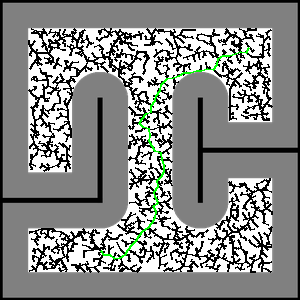
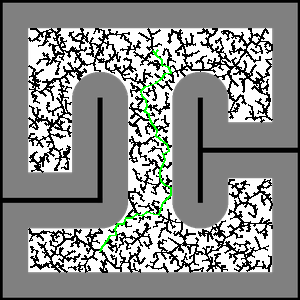
arm position gain updated

Changed region(s): [[0.09, 0.09, 0.93, 0.93]]

diff --git a/finalproject.py b/finalproject.py
@@ -42,7 +42,7 @@ class Run:
         self.joint_angles = np.zeros(7)
 
         # goal location
-        self.goal_position = (2.5, 2.5)
+        self.goal_position = (1.6, 2.5)
         self.goal_shelf = 1
 
         self.offset3 = 0.3105
@@ -74,7 +74,7 @@ class Run:
             math.sin(goal_theta - self.odometry.theta),
             math.cos(goal_theta - self.odometry.theta))) > 0.02:
             output_theta = self.pidTheta.update(self.odometry.theta, goal_theta, self.time.time())
-            self.create.drive_direct(int(+output_theta), int(-output_theta))
+            self.create.drive_direct(int(+output_theta)+5, int(-output_theta)-5)
             self.sleep(0.01)
         self.create.drive_direct(0, 0)
         self.pf.move_by(self.odometry.x - old_x, self.odometry.y - old_y, self.odometry.theta - old_theta)
@@ -123,30 +123,18 @@ class Run:
         return (real_x, real_y)
     
     def final_rotate_angle(self):
-        diff_x = (3 - self.goal_position[0], self.goal_position[0])
-        diff_y = (3 - self.goal_position[1], self.goal_position[1])
-        if diff_x[0] < diff_x[1]:
-            if diff_y[0] < diff_x[0]:
-                return -math.pi/2.
-            elif diff_y[1] < diff_x[0]:
-                return math.pi/2.
-            elif diff_x[0] == diff_y[0]:
-                return math.pi+math.pi/4.
-            elif diff_x[0] == diff_y[1]:
-                return math.pi-math.pi/4.
-            else:
-                return math.pi
-        else:
-            if diff_y[0] < diff_x[1]:
-                return -math.pi/2.
-            elif diff_y[1] < diff_x[1]:
-                return math.pi/2.
-            elif diff_x[1] == diff_y[0]:
-                return -math.pi/4
-            elif diff_x[1] == diff_y[1]:
-                return math.pi/4
-            else:
-                return 0
+        self.arm.get_position()
+        self.time.sleep(1)
+        arm_location = self.arm.get_position()
+
+        if arm_location[1] > 3:
+            return -math.pi/2.
+        elif arm_location[1] < 0:
+            return math.pi/2.
+        elif arm_location[0] < 0:
+            return 0
+        elif arm_location[0] > 3:
+            return math.pi
 
 
     ### section2
@@ -235,7 +223,7 @@ class Run:
         current_loc = self.get_position()
         self.odometry.x = current_loc[0]
         self.odometry.y = current_loc[1]
-        base_speed = 20
+        base_speed = 15
         while True:
             state = self.create.update()
             old_x = self.odometry.x
@@ -250,7 +238,7 @@ class Run:
 
                 distance = math.sqrt(math.pow(self.goal_position[0] - self.odometry.x, 2) + math.pow(self.goal_position[1] - self.odometry.y, 2))
                 x_distance = abs(self.odometry.x - self.goal_position[0])
-                if x_distance < 0.017 and distance < 0.03:
+                if x_distance < 0.017 and distance < 0.04:
                     self.create.drive_direct(0, 0)
                     break
 
@@ -268,6 +256,7 @@ class Run:
         self.odometry.x = start_position[0]
         self.odometry.y = start_position[1]
         self.odometry.theta = 0
+        self.pf.set_particle((start_position[0], start_position[1], self.odometry.theta))
         start_position = self.real_to_image(start_position)
         self.rrt.build(start_position, 6000, 6)
         goal = self.rrt.nearest_neighbor(self.real_to_image(self.goal_position))
@@ -353,6 +342,7 @@ class Run:
             count += 1
 
         self.create.drive_direct(0, 0)
+        print("Final Step")
         self.compensate_location()
         self.go_to_angle(self.final_rotate_angle())
         self.create.drive_direct(0, 0)

diff --git a/pyCreate2/simulation/kuka_lbr4p_vrep.py b/pyCreate2/simulation/kuka_lbr4p_vrep.py
@@ -19,6 +19,14 @@ class KukaLBR4PlusVrep:
                 vrep.simx_opmode_oneshot_wait)
             self._joints.append(joint)
 
+    def get_position(self):
+        rc, (x,y,z) = vrep.simxGetObjectPosition(
+            self._clientID,
+            self._joints[0],
+            -1,
+            vrep.simx_opmode_streaming)
+        return (x, y)
+
     def close_gripper(self):
         vrep.simxSetIntegerSignal(self._clientID, 'P_Grip_straight_motor', 1, vrep.simx_opmode_oneshot_wait)
 

diff --git a/particle_filter.py b/particle_filter.py
@@ -31,6 +31,10 @@ class ParticleFilter:
                 np.random.uniform(0, 2*math.pi),
                 # 0,
                 math.log(p)))
+    
+    def set_particle(self, location):
+        ln_p = self._particles[0].ln_p
+        self._particles[0] = Particle(location[0], location[1], location[2], ln_p)
 
     def move_by(self, x, y, theta):
         for particle in self._particles:
